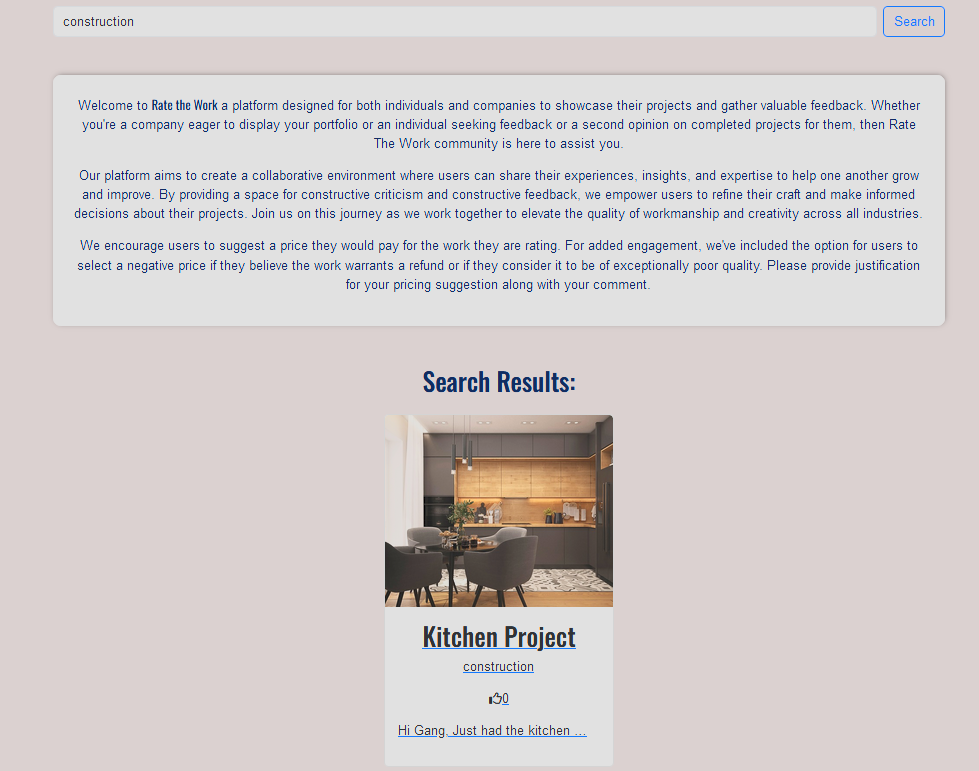
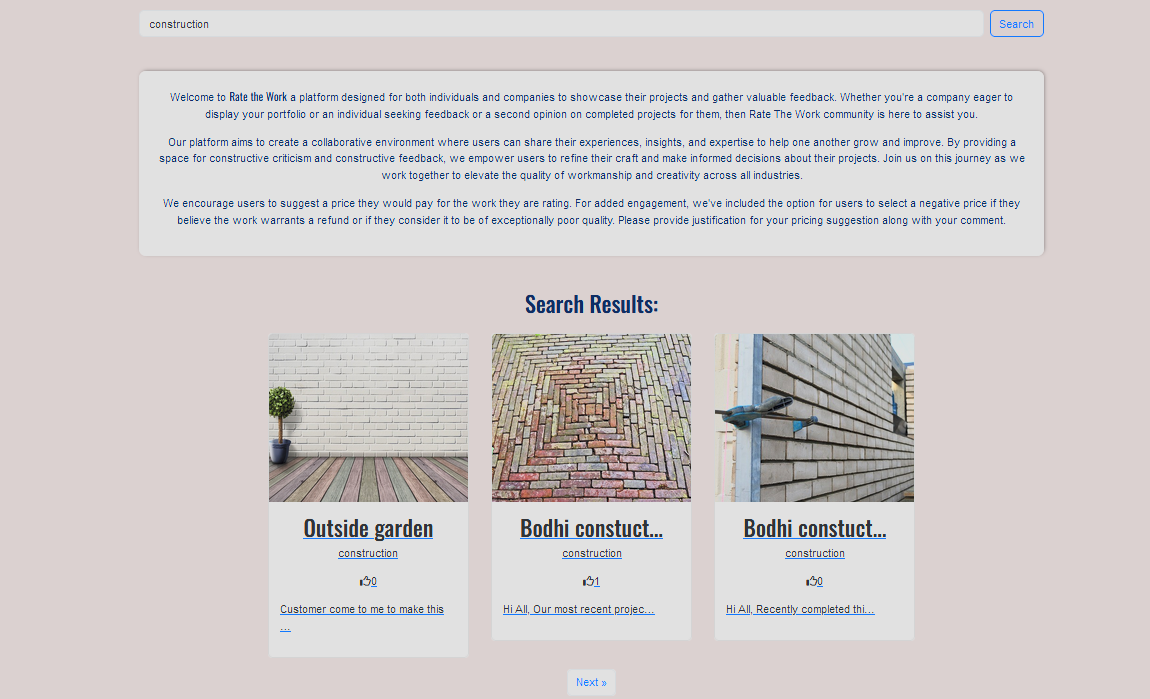
ADD: read.me work detailsfeatures.

diff --git a/user_dashboard/templates/user_dashboard/profile.html b/user_dashboard/templates/user_dashboard/profile.html
@@ -19,7 +19,7 @@
             </p>
             <p>
                 <i>
-                    Please supply a profile picture and the user type int he button below to complete your profile.
+                    Please supply a profile picture and the user type in the button below to complete your profile.
                 </i>
             </p>
         </div>

diff --git a/static/css/style.css b/static/css/style.css
@@ -112,7 +112,7 @@ img.logo {
 
 /* work display cards*/
 .card-width {
-    width: 18rem;
+    max-width: 15rem;
 }
 
 .card-front-img {
